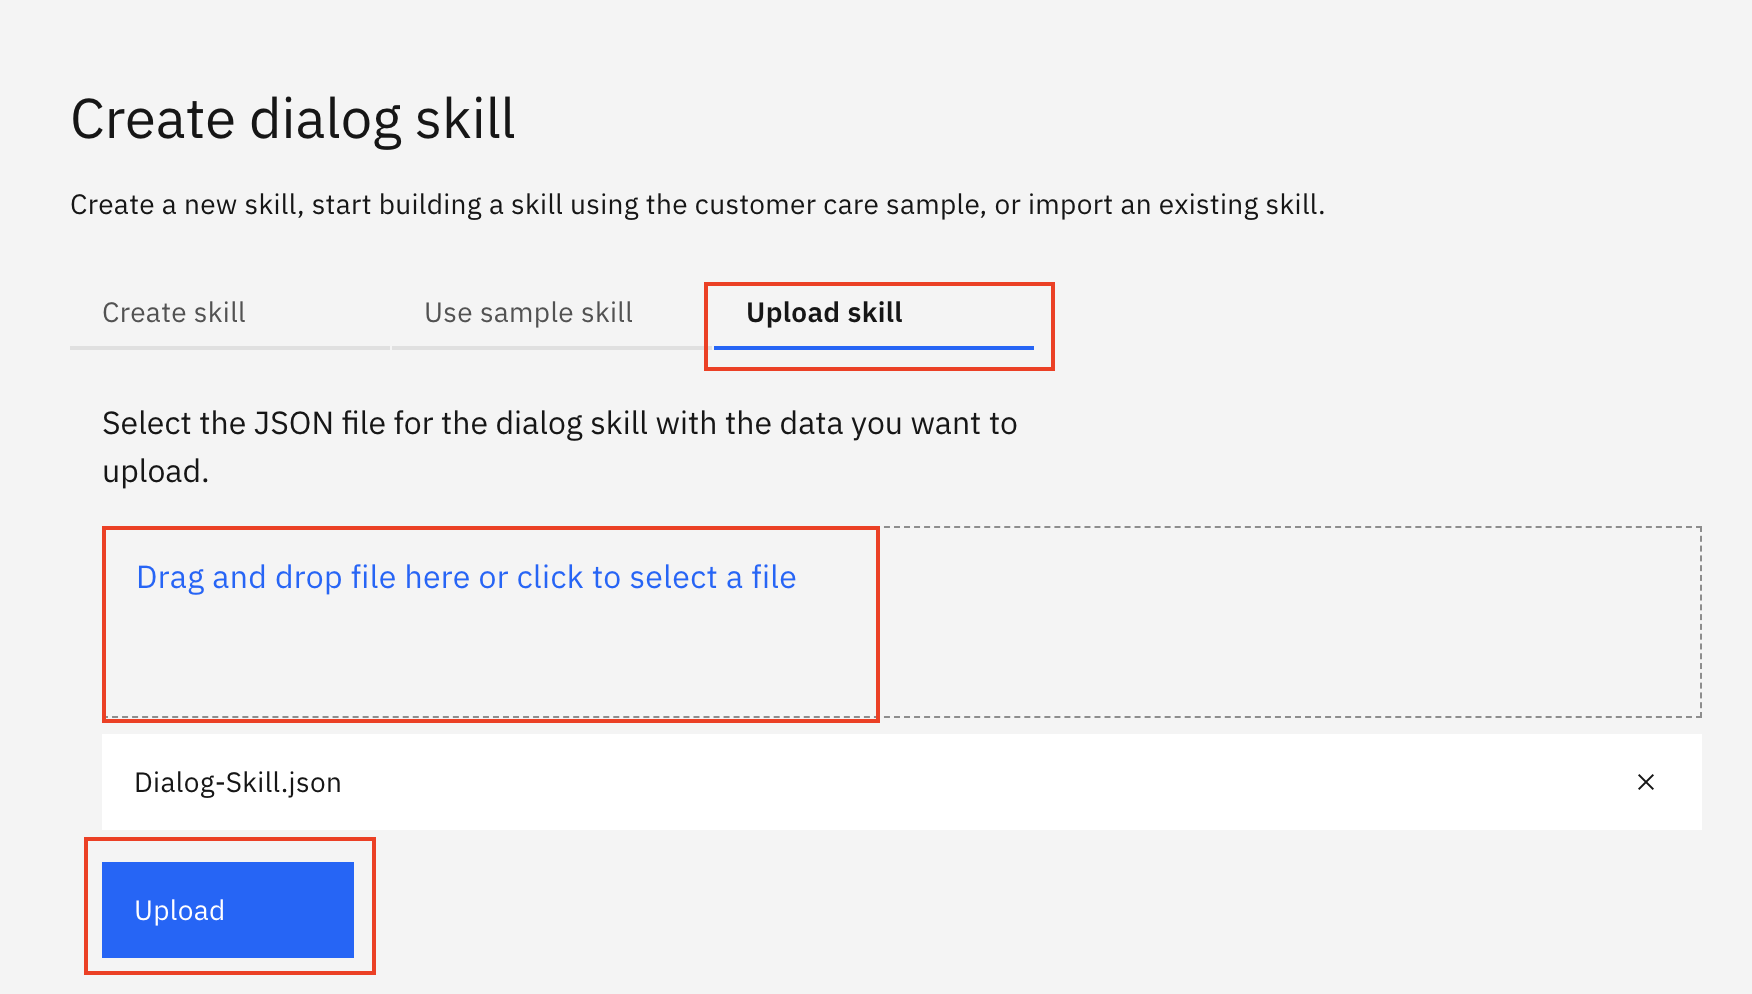
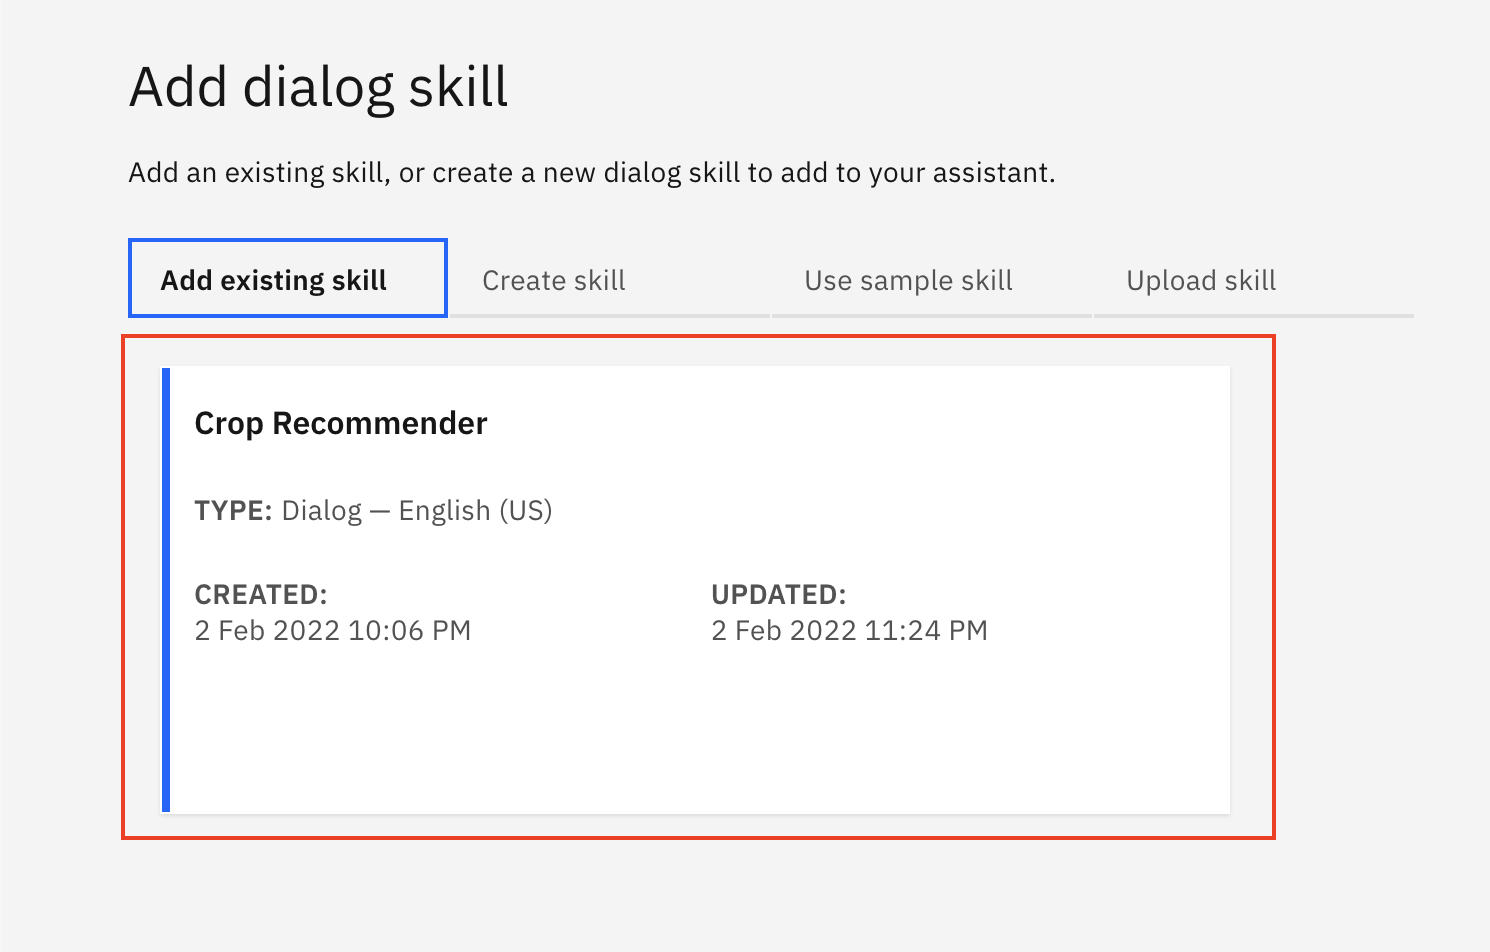
Didact changes Agro, Video, Anomaly

diff --git a/didact/Readme-agro-smart-assistant.md b/didact/Readme-agro-smart-assistant.md
@@ -312,11 +312,14 @@
    <div class="section">
     <p style="font-size:24px">Execution Flow</p>
         <ol>
-        <li>Create a deployment space using Watson Machine Learning in IBM Cloud Pak for Data platform and deploy a pre-trained machine learning model</li>
+        <li>Use the IBM Cloud CLI to login to your IBM Cloud account</li>
+        <li>Create IBM Cloud services instances for Cloud Object Storage, Watson Machine 
+Learning, Watson Assistant, and Watson Studio in IBM Cloud Pak for Data</li>
+        <li>Deploy our Crop Recommender model in Watson Studio</li>
         <li>Create a Cloud Function to get output from the model using the model URL</li>
-        <li>Create a chatbot in Watson Assistant</li>
-        <li>Integrate the chatbot with the Cloud Function</li>
-        <li>Prompt the user for soil characteristics via the chatbot and return crop recommendations</li>
+        <li>Create a chatbot in Watson Assistant and integrate with the Cloud Function</li>
+        <li>Prompt the user for soil characteristics via the chatbot</li>
+        <li>The chatbot will use the Cloud Funtion to pass user responses to the model and return crop recommendations to the user</li>
         </ol>
     </div>
    <div class="section">
@@ -329,7 +332,8 @@
    <div class="section">
       <p style="font-size:24px">Included Components</p>
       <div class="content-">
-          <p>This  application uses the following <a href=" https://www.ibm.com/products/cloud-pak-for-data">IBM Cloud Pak for Data services</a>:</p>
+          <p>This application uses the following <a href="https://cloud.ibm.com">IBM Cloud services</a>:</p>
+          <p><a href="https://www.ibm.com/products/cloud-pak-for-data">IBM Cloud Pak for Data</a>: An integrated platform for data and AI</p>
           <p><a href="https://cloud.ibm.com/objectstorage">Cloud Object Storage</a>: IBM Cloud Object Storage is a highly scalable cloud storage service, designed for high durability, resiliency and security</p>
           <p><a href="https://cloud.ibm.com/catalog/services/watson-assistant">Watson Assistant</a>: Watson Assistant lets you build conversational interfaces into any application, device, or channel</p>
           <p><a href="https://cloud.ibm.com/catalog/services/watson-studio">Watson Studio</a>: Develop sophisticated machine learning models using Notebooks and code-free tools to infuse AI throughout your business</p>
@@ -362,14 +366,15 @@
       </div>
       <div class="container right">
         <div class="content">
-           <p>Install required dependencies for executing application
+           <p>Install required dependencies for executing python scripts and the node chatbot application
            </p>
            <a class="button is-dark is-medium" title="Build the Application" href="didact://?commandId=extension.sendToTerminal&text=AgroSmartAssistant%7Cbuild%7Csandbox%20terminal|cd%20${CHE_PROJECTS_ROOT}/cp4d-smart-virtual-assistant%20%26%26%20npm%20install%26%26pip3.8%20install%20-r%20requirements.txt">Install Dependenciess</a>
         </div>
      </div>
      <div class="container right">
         <div class="content">
-           <p>Log in to your IBM Cloud account</p>
+           <p>Log in to your IBM Cloud account. You will be provided a link to get your one-time passcode which you will need to copy 
+and paste to proceed with authorization</p>
           <a class="button is-dark is-medium" title="Login to IBM Cloud" href="didact://?commandId=extension.sendToTerminal&text=AgroSmartAssistant%7Cibm-login%7Csandbox%20terminal|cd%20${CHE_PROJECTS_ROOT}/cp4d-smart-virtual-assistant%20%26%26%20chmod%20%2Bx%20.%2Fscripts%2Flogin.sh%20%26%26%20.%2Fscripts%2Flogin.sh">Login to IBM Cloud</a>
         </div>
      </div>
@@ -377,19 +382,19 @@
         <div class="content">
           <p>Create services on IBM Cloud</p>
           <a class="button is-dark is-medium" title="Create IBM Watson Services" href="didact://?commandId=extension.sendToTerminal&text=AgroSmartAssistant%7Ccreate-services%7Csandbox%20terminal|cd%20${CHE_PROJECTS_ROOT}/cp4d-smart-virtual-assistant%20%26%26%20chmod%20%2Bx%20.%2Fscripts%2Fcreate-ibm-services.sh%20%26%26%20.%2Fscripts%2Fcreate-ibm-services.sh">Create Services</a>
-          <p style="margin-top:50px">Follow the below steps to configure the asset</p>
+          <p style="margin-top:50px">Follow the below steps to download and deploy the Watson Machine Learning model</p>
         </div>
       </div>
       <div class="container right">
         <div class="content">
         <details>
-         <summary>&nbsp;&nbsp;&nbsp;&nbsp;&nbsp;Create a New Deployment Space and Deploy the Model</summary></br></br>
+         <summary>&nbsp;&nbsp;&nbsp;&nbsp;&nbsp;Create a New Deployment Space and Deploy the Model using Watson Machine Learning</summary></br></br>
          <div class="step">
-          <p>Step 1 : Generate an API Key in the IBM account</p>
+          <p>Step 1 : Generate an API Key in the IBM account. This is required to access the model for our Cloud Function</p>
           <a class="button is-dark is-medium" title="Generate API key" href="didact://?commandId=extension.sendToTerminal&text=sandbox%20terminal%7Cgenerate-api-token%7Csandbox%20terminal|cd%20${CHE_PROJECTS_ROOT}/cp4d-smart-virtual-assistant;ibmcloud%20iam%20api-key-create%20ApiKey-SVA%20-d%20'this is API key for Smart Virtual Assitant'%20--file%20${CHE_PROJECTS_ROOT}/cp4d-smart-virtual-assistant/key_file">Generate API key</a></br>
         </div>
           <div class="step">
-            <p>Step 2 : Create a new deployment space with the pre-loaded model. Make sure your CP4D account is active in the region given in sandbox terminal.</p>
+            <p>Step 2 : Create a new deployment space with the pre-loaded model. Make sure your <a href="https://dataplatform.cloud.ibm.com?cm_sp=ibmdev--developer-sandbox--cloudreg">IBM Cloud Pak for Data</a> account is active in the region given in sandbox terminal</p>
             <a class="button is-dark is-medium" href="didact://?commandId=extension.sendToTerminal&text=AgroSmartAssistant%7Cstart%7Csandbox%20terminal|cd%20${CHE_PROJECTS_ROOT}/cp4d-smart-virtual-assistant%20%26%26%20python3.8%20create_space.py">Create Deployment Space</a>
           <details style="margin-top:5px;">
          <summary>&nbsp;&nbsp;&nbsp;&nbsp;&nbsp;Incase your model import failed, do the following steps</summary></br></br>
@@ -398,7 +403,7 @@
           <a class="button is-dark is-medium" href="https://github.com/IBM/Developer-Playground/raw/agro-chatbot/crop-recommendation.zip">Download</a>
            </div>
            <div class="step">
-           <p>Step 2 : Login to your <a href="https://dataplatform.cloud.ibm.com?cm_sp=ibmdev--developer-sandbox--cloudreg">Cloud Pak for Data</a> account with the region given in your sandbox terminal. Click on "Create a Project"</p>
+           <p>Step 2 : Login to your <a href="https://dataplatform.cloud.ibm.com?cm_sp=ibmdev--developer-sandbox--cloudreg">IBM Cloud Pak for Data</a> account with the region given in your sandbox terminal. Click on "Create a Project"</p>
           <img src = "https://raw.githubusercontent.com/IBM/Developer-Playground/development/didact/images/section_error_1.png" width = "750" height= "750">
            </div>
            <div class="step">
@@ -440,17 +445,17 @@
       <div class="container right">
         <div class="content">
           <details>
-         <summary>&nbsp;&nbsp;&nbsp;&nbsp;&nbsp;Configure Cloud Functions</summary></br></br>
+         <summary>&nbsp;&nbsp;&nbsp;&nbsp;&nbsp;Configure Cloud Functions to access the model</summary></br></br>
           <div class="step">
            <p>Step 1 : Create an Action in cloud functions with web action enabled</p>
            <a class="button is-dark is-medium" title="Create Action" href="didact://?commandId=extension.sendToTerminal&text=AgroSmartAssistant%7Ccreate-action%7Csandbox%20terminal|cd%20${CHE_PROJECTS_ROOT}/cp4d-smart-virtual-assistant%20%26%26%20chmod%20%2Bx%20.%2Fscripts%2Fcreate_action.sh%20%26%26%20.%2Fscripts%2Fcreate_action.sh">Create Action</a>
            </div>
           <div class="step">
-           <p>Step 2 : Run the script to add api_key parameter in the Action</p>
+           <p>Step 2 : Run the script to add API Key parameter to the Action</p>
            <a class="button is-dark is-medium" title="Create Parameter" href="didact://?commandId=extension.sendToTerminal&text=AgroSmartAssistant%7Ccreate-services%7Csandbox%20terminal|cd%20${CHE_PROJECTS_ROOT}/cp4d-smart-virtual-assistant%20%26%26%20chmod%20%2Bx%20.%2Fscripts%2Fadd_parameter.sh%20%26%26%20.%2Fscripts%2Fadd_parameter.sh">Add Parameter</a>
            </div>
           <div class="step">
-           <p>Step 3 : Run the script to update Dialog skill file with the webhook URL</p>
+           <p>Step 3 : Run the script to update the Watson Assistant Dialog skill file with the webhook URL to access the Cloud Function</p>
            <a class="button is-dark is-medium" title="Update" href="didact://?commandId=extension.sendToTerminal&text=AgroSmartAssistant%7Ccreate-services%7Csandbox%20terminal|cd%20${CHE_PROJECTS_ROOT}/cp4d-smart-virtual-assistant%20%26%26%20chmod%20%2Bx%20.%2Fscripts%2Fupdate_dialog.sh%20%26%26%20.%2Fscripts%2Fupdate_dialog.sh">Update Dialog Skill</a>
           </div>
           </details>
@@ -461,35 +466,31 @@
           <details>
          <summary>&nbsp;&nbsp;&nbsp;&nbsp;&nbsp;Integrate the Machine Learning Model with Watson Assistant</summary></br></br>
           <div class="step">
-          <p>Step 1 : Navigate to your<a href="https://cloud.ibm.com">IBM Cloud Account</a>. On the left menu, select "Resource" tab > select "Services and software". Click your Watson Assistant service and then select "Launch Watson Assistant"</p>
-          <img src = "https://raw.githubusercontent.com/IBM/Developer-Playground/development/didact/images/section_4.1_assistant.png" width = "750" height= "750">
+          <p>Step 1 : Create the Dialog Skill</p>
+          <a class="button is-dark is-medium" href="didact://?commandId=extension.sendToTerminal&text=AgroSmartAssistant%7Ccreate-skill%7Csandbox%20terminal|cd%20${CHE_PROJECTS_ROOT}/cp4d-smart-virtual-assistant%20%26%26%20python3.8%20watson-assistant.py">Create Skill</a>
           </div>
           <div class="step">
-          <p>Step 2 : If the below screen is displayed, click on the profile icon and select "Switch to classic experience"</p>
+          <p>Step 2 : Open the Assistant URL given in sandbox terminal in a new tab. Avoid using the shortcut to open the URL just copy paste the URL in new tab</p>
+          </div>
+          <div class="step">
+          <p>Step 3 : If the below screen is displayed, click on the profile icon and select "Switch to classic experience"</p>
           <img src = "https://raw.githubusercontent.com/IBM/Developer-Playground/development/didact/images/section_4.2_assistant.png" width = "750" height= "750">
           </div>
           <div class="step">
-          <p>Step 2 : Click on "Create assistant"</p>
+          <p>Step 4 : Click on "Create assistant"</p>
           <img src = "https://raw.githubusercontent.com/IBM/Developer-Playground/development/didact/images/section_4.3_assistant.png" width = "550" height= "550">
           </div>
           <div class="step">
-          <p>Step 3 : Enter the name of the assistant and click "Create assistant"</p>
+          <p>Step 5 : Enter the name of the assistant and click "Create assistant"</p>
           <img src = "https://raw.githubusercontent.com/IBM/Developer-Playground/development/didact/images/section_4.4_assistant.png" width = "550" height= "550">
           </div>
           <div class="step">
-          <p>Step 4 : Once the Assistant is created, click on "Add dialog skill"</p>
+          <p>Step 6 : Once the Assistant is created, click on "Add dialog skill"</p>
           <img src = "https://raw.githubusercontent.com/IBM/Developer-Playground/development/didact/images/section_4.5_assistant.png" width = "750" height= "750">
           </div>
           <div class="step">
-          <p>Step 5 : Load the Dialog Skill</p>
-          <a class="button is-dark is-medium" href="didact://?commandId=extension.openFile&text=AgroSmartAssistant%7Cload-skill%7C${CHE_PROJECTS_ROOT}/cp4d-smart-virtual-assistant/Dialog-Skill.json">Load Skill</a>
-          </div>
-          <div class="step">
-          <p>Step 6 : Download the Dialog Skill</p>
-          <a class="button is-dark is-medium" title="Launch the Application" href="didact://?commandId=file.download">Download</a>
-          </div>
-          <div class="step">
-          <p>Step 7 : In the "Create dialog skill" window, select the "Dialog Skill" file and click "Upload"</p>
+          <p>Step 7
+           : In the "Add dialog skill" window, select the "Add Existing Skill" file and click on the "Crop Recommender" Skill</p>
           <img src = "https://raw.githubusercontent.com/IBM/Developer-Playground/development/didact/images/section_4.6_assistant.png" width = "750" height= "750">
           </div>
           </details>
@@ -504,7 +505,7 @@
           <img src = "https://raw.githubusercontent.com/IBM/Developer-Playground/development/didact/images/section_5.1_chatbot.png" width = "450" height= "450">
           </div>
           <div class="step">
-          <p>Step 2 : Copy the Assistant ID, Assistant URL and API key in .env file</p>
+          <p>Step 2 : Copy the Assistant ID and Assistant URL in .env file</p>
           <img src = "https://raw.githubusercontent.com/IBM/Developer-Playground/development/didact/images/section_5.2_chatbot.png" width = "750" height= "750">
           </div>
           <div class="step">
@@ -541,7 +542,7 @@
          <p class="image-content">Want to explore this project more?
             <span style="font-size:15px;margin-top:0px;display:block;">Head over to the <a href="https://github.com/Anam-Mahmood/Unlock-the-Power-of-Machine-Learning-in-Virtual-Assistants-to-automate-Loan-Applications" target="_blank">Github Repository</a></span>
             <span style="font-size:15px;margin-top:0px;display:block;">For further assistance reach out to <a href="https://github.com/IBM/Technology-sandbox-Support/issues/new/choose" target="_blank"> Help & Support</a></span>
-            <span style="font-size:15px;margin-top:0px;display:block;">Check out our <a href="https://github.com/IBM/Technology-Sandbox-Support/blob/main/technology-sandbox-faq.html" target="_blank">FAQs</a></span>
+            <span style="font-size:15px;margin-top:0px;display:block;">Check out our <a href="https://ibm.github.io/Technology-Sandbox-Support/" target="_blank">FAQs</a></span>
          </p>
       </div>
    </div>

diff --git a/didact/Readme-ai4industry--anomaly-detection-product.md b/didact/Readme-ai4industry--anomaly-detection-product.md
@@ -360,7 +360,7 @@
          <p class="image-content">Want to explore this project more?
             <span style="font-size:15px;margin-top:0px;display:block;">Head over to the <a href="https://github.com/IBM/Developer-Playground/tree/anomaly" target="_blank">Github Repository</a></span>
             <span style="font-size:15px;margin-top:0px;display:block;">For further assistance reach out to <a href="https://github.com/IBM/Technology-Sandbox-Support/issues/new/choose" target="_blank"> Help & Support</a></span>
-            <span style="font-size:15px;margin-top:0px;display:block;">Check out our <a href="https://github.com/IBM/Technology-Sandbox-Support/blob/main/technology-sandbox-faq.html" target="_blank">FAQs</a></span>
+            <span style="font-size:15px;margin-top:0px;display:block;">Check out our <a href="https://ibm.github.io/Technology-Sandbox-Support/" target="_blank">FAQs</a></span>
          </p>
          <div class="image-btn">
             <a class="image-link" href="didact://?commandId=extension.openURL&text=anomaly%7Cview-product-details%7Chttps://www.ibm.com/products

diff --git a/didact/Readme-video-analysis.md b/didact/Readme-video-analysis.md
@@ -392,7 +392,7 @@
          <p class="image-content">Want to explore this project more?
             <span style="font-size:15px;margin-top:0px;display:block;">Head over to the <a href="https://github.com/IBM/Developer-Playground/tree/video-insights">Github Repository</a></span>
         <span style="font-size:15px;margin-top:0px;display:block;">For further assistance reach out to <a href="https://github.com/IBM/Technology-Sandbox-Support/issues/new/choose" target="_blank"> Help & Support</a></span>
-        <span style="font-size:15px;margin-top:0px;display:block;">Check out our <a href="https://github.com/IBM/Technology-Sandbox-Support/blob/main/technology-sandbox-faq.html" target="_blank">FAQs</a></span>
+        <span style="font-size:15px;margin-top:0px;display:block;">Check out our <a href="https://ibm.github.io/Technology-Sandbox-Support/" target="_blank">FAQs</a></span>
           </p>
          <a class="image-link" href="https://developer.ibm.com/patterns/extract-textual-insights-from-a-given-video/" target="_blank">
          <div class="image-btn">
